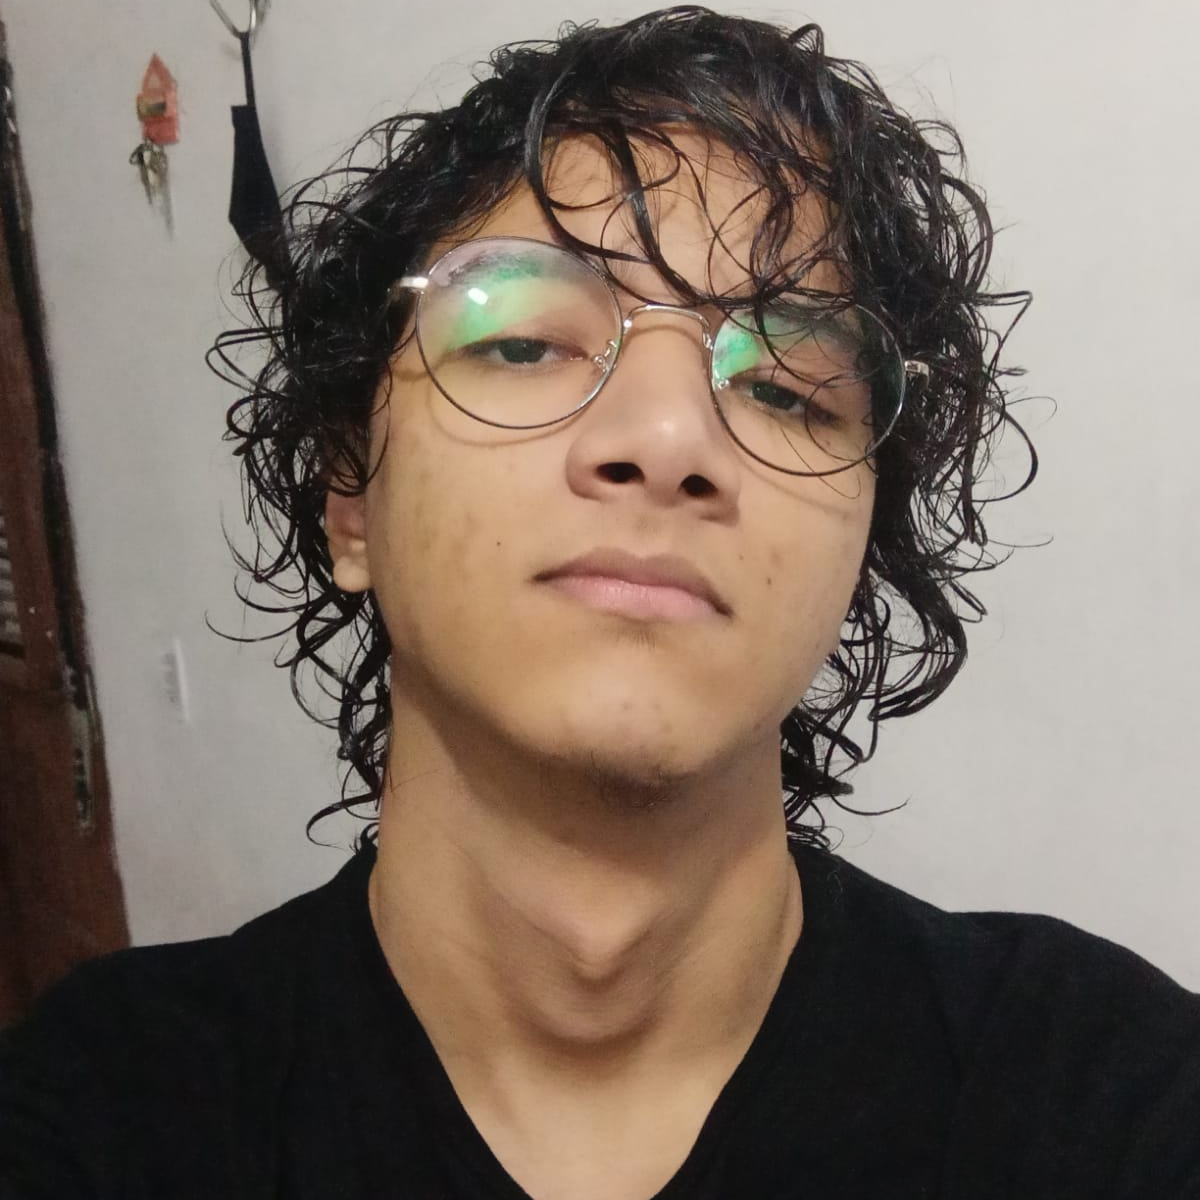
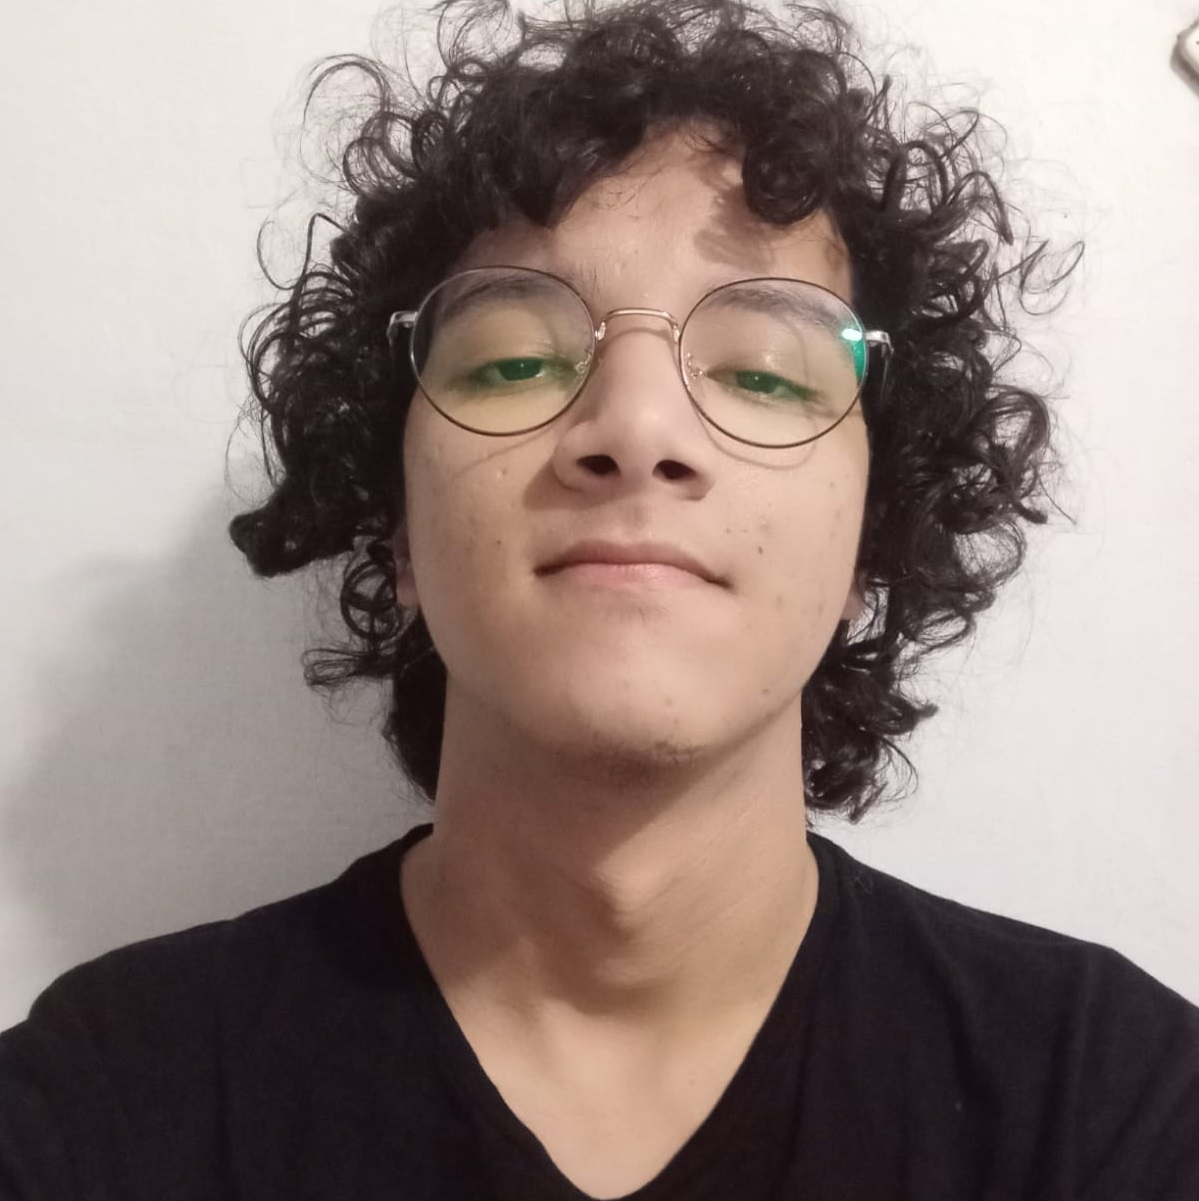
Atualização das fotos (Iago, Paulo Victor e João Víctor) da página de programação

diff --git a/README.md b/README.md
@@ -1,2 +1,6 @@
 # Site EAComp
 Repositório do site do evento EAComp realizada pelo PETComp
+
+-Fotos faltantes
+
+Arthur, Carlos, Thalisson, Maikon (talvez), Lucho (talvez)
